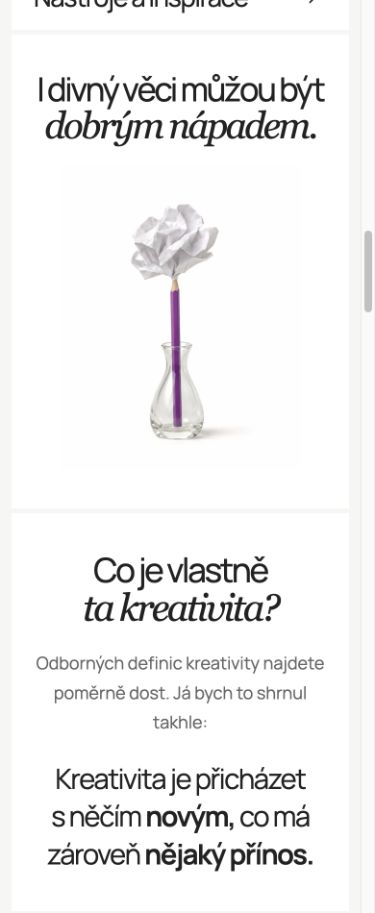
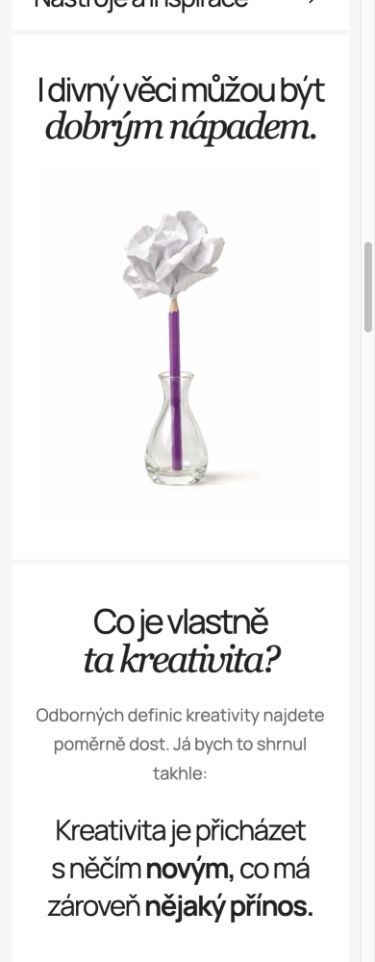
Mirne zvetsit fotografii papirove kvetiny

Changed region(s): [[0.088, 0.5827, 0.88, 0.9814], [0.1173, 0.0613, 0.88, 0.184], [0.3227, 0.2147, 0.616, 0.5214]]

diff --git a/README.md b/README.md
@@ -459,3 +459,6 @@ Autor 8. 11. 2026 výslovně zadal hotové úpravy po kontrole posílat rovnou n
 [Úvod magazínu](http://127.0.0.1:4321/kreativec#o-magazinu) má místo banánu menší fotografii papírové květiny na výšku, na bílém pozadí. [Desktop](docs/nahled-kreativec-zatisi.jpg), [mobil](docs/nahled-kreativec-kvetina-mobile.jpg), [původ a prompt](docs/CREATIVE-PAPER-FLOWER.md). Banán v obecném průvodci zůstává.
 
 [Šest cest k nápadu](http://127.0.0.1:4321/kreativec#muj-pohled-na-kreativitu) doplňují krátké ověřené příklady vynálezů. Zdrojové odkazy jsou společně až dole v rozbalení. [Desktop](docs/nahled-kreativec-odpovedi.jpg), [mobil](docs/nahled-kreativec-priklady-mobile.jpg), [zdroje a hranice zjednodušení](docs/CREATIVITY-EXAMPLES-SOURCES.md). Pracovní parafráze, nikoli citace. Ověřeno 1440/800/390/320 px, šest příkladů, rozbalení klávesnicí a konzole bez chyb. Produkční build úspěšný: 105 souborů bez chyb/varování, 81 HTML a 2608 místních URL. Nahrání na GitHub je autorizované trvalým pokynem výše.
+
+
+Následné upřesnění (8. 11. 2026): papírová květina je o čtvrtinu větší na desktopu (max. 500 px), mírně větší i na mobilu (84 % / max. 320 px). [Desktop](docs/nahled-kreativec-zatisi.jpg) a [mobil](docs/nahled-kreativec-kvetina-mobile.jpg) aktualizované. Kontrola 1440/390 px a produkční build úspěšné.

diff --git a/docs/CREATIVE-PAPER-FLOWER.md b/docs/CREATIVE-PAPER-FLOWER.md
@@ -6,7 +6,7 @@ Nová AI fotografická studie vytvořená vestavěným ImageGen 8. 11. 2026; nej
 - Původní výstup: `/Users/marekstojka/.codex/generated_images/01a1ba56-3719-7482-898a-03a733e8f283/exec-d06699e3-c737-4e24-8de6-7e5298e33d1d.png`.
 - Provedení: vestavěný nástroj, nová fotografie bez vstupního editovaného obrázku. Původní výstup zachovaný, do projektu zkopírovaný beze změn; Astro vytváří responzivní WebP.
 - Motiv je fyzicky sestavitelný: bílý zmačkaný papír nasazený na fialovou tužku v malé skleněné váze. Bez viditelných malých popisků podle předchozího pokynu; přístupný alternativní text zůstává.
-- Zobrazení nejvýše 400 px široké, na mobilu nejvýše 280 px, celý motiv bez ořezu a s bílým okolím.
+- Na následný pokyn autora zvětšeno na nejvýše 500 px šířky (z původních 400 px), na mobilu 84 % dostupného prostoru, nejvýše 320 px. Celý motiv bez ořezu a s bílým okolím.
 
 ## Přesný prompt
 
